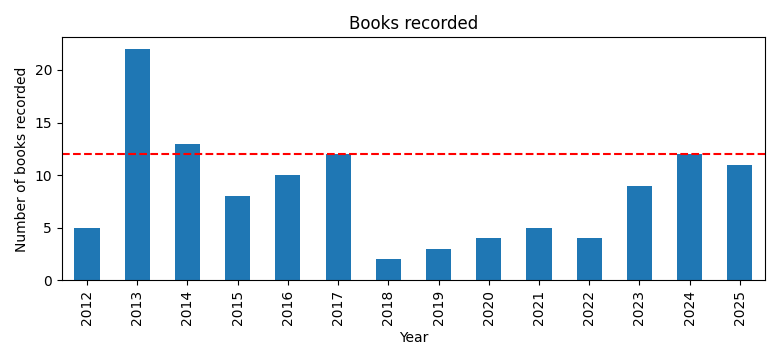
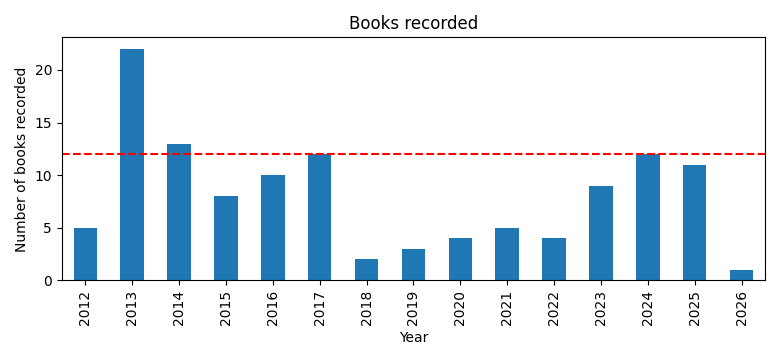
eisenstein

Changed region(s): [[0.1231, 0.1222, 0.9846, 0.9167], [0.9231, 0.7944, 0.9538, 0.9167], [0.0923, 0.7944, 0.1231, 0.9167]]

diff --git a/README.md b/README.md
@@ -3,13 +3,16 @@
 I started this log on October 30th, 2012. I list all books I read.  
 
 ### Statistics
-Total number of books read: 120  
-Books per month: 0.75 (2012/9 to 2025/12)
+Total number of books read: 121  
+Books per month: 0.75 (2012/9 to 2026/1)
 
 ![Books recorded by year](book_recorded.png)
 ![Books read per month](book_read.png)
 
 ### List of books
+*The flight of the Eisenstein (Horus Heresy)*, James Swallow  
+Finished: 2026.01.07
+
 *Galaxy in Flames (Horus Heresy)*, Ben Counter  
 Finished: 2025.12.30
 
